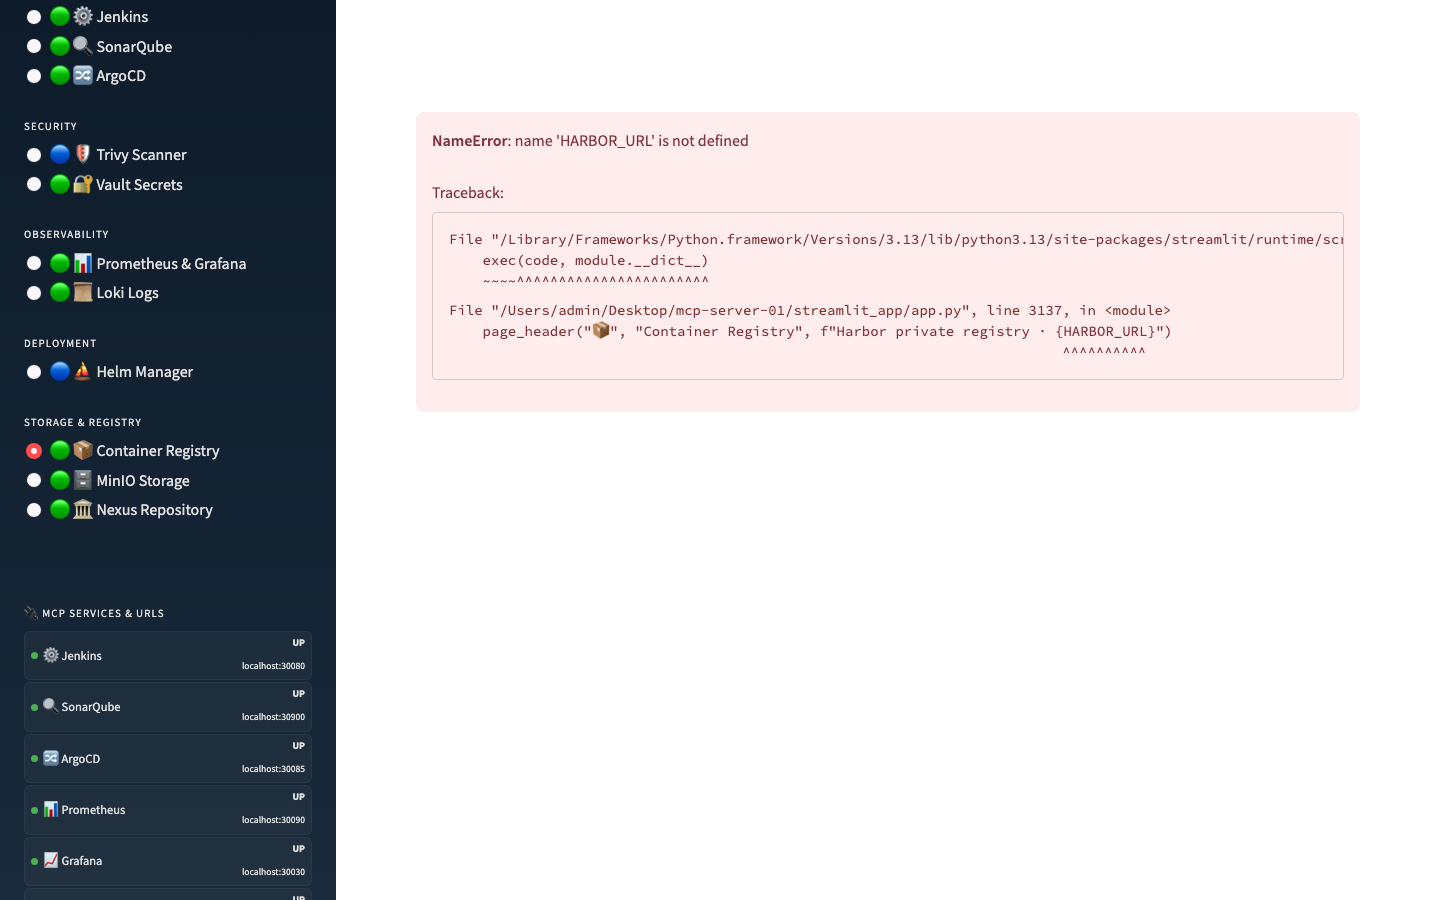
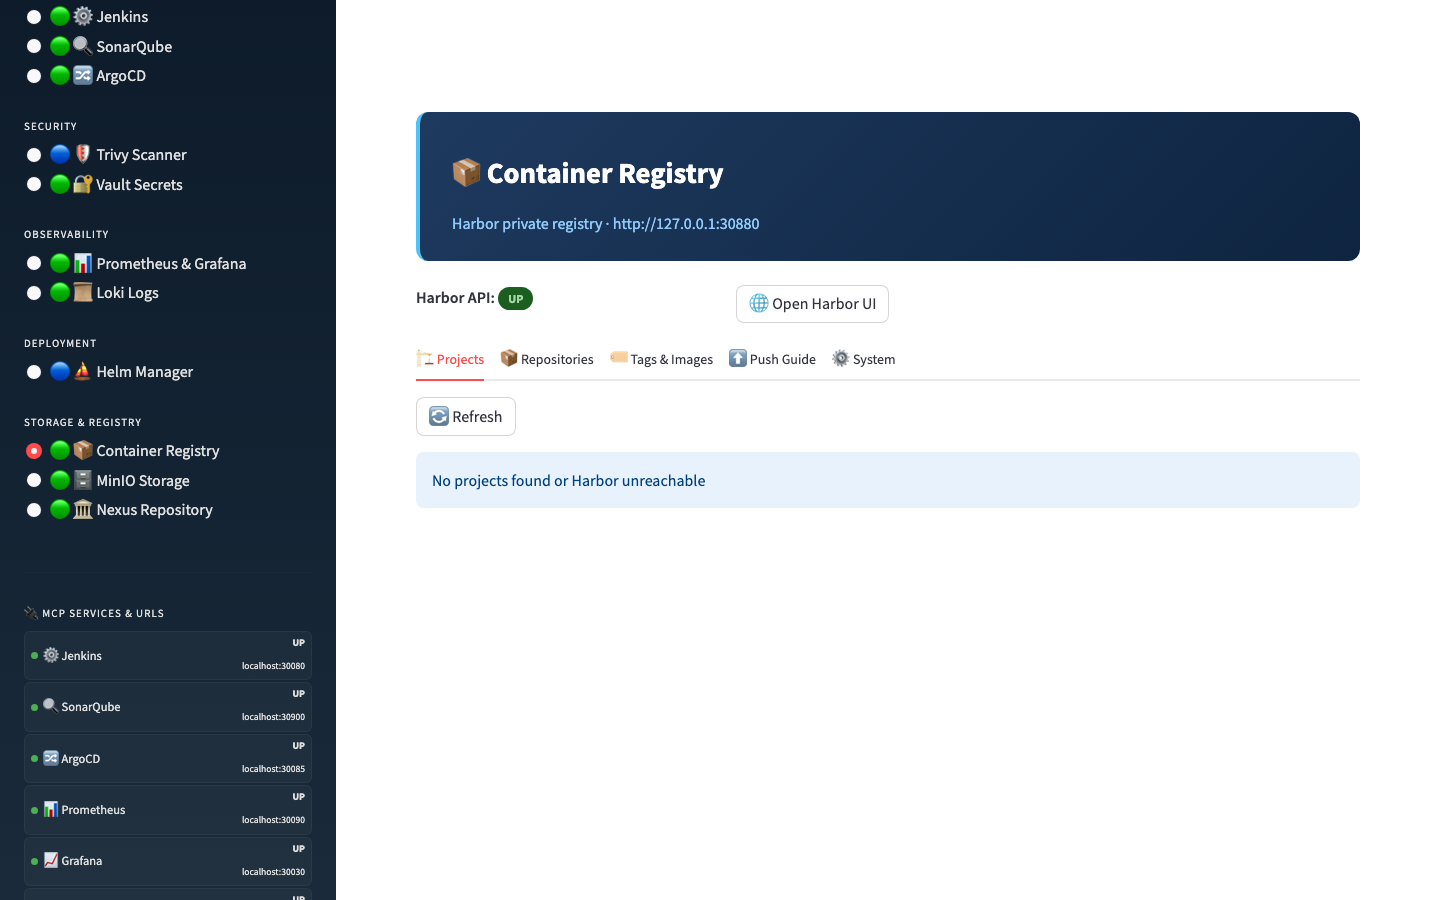
fix: add missing HARBOR_URL, HARBOR_AUTH, MINIO_ACCESS_KEY, MINIO_SECRET_KEY constants
NameError crashes on Container Registry and MinIO pages because these
variables were used in page code but never defined in the config block.
Added all 4 constants at lines 32-38 alongside existing service configs.
Also refreshed st_13_registry.png and st_14_minio.png screenshots.

Changed region(s): [[0.2812, 0.1244, 0.9688, 0.4044], [0.3125, 0.5289, 0.5, 0.56], [0.2812, 0.4356, 0.3438, 0.4978]]

diff --git a/streamlit_app/app.py b/streamlit_app/app.py
@@ -31,8 +31,12 @@ VAULT_TOKEN       = "root"
 LOKI_URL          = "http://localhost:30310"
 REGISTRY_URL      = "http://127.0.0.1:30880"
 REGISTRY_UI_URL   = "http://127.0.0.1:30881"
+HARBOR_URL        = "http://127.0.0.1:30880"
+HARBOR_AUTH       = ("admin", "Admin@123456789@")
 MINIO_URL         = "http://localhost:30920"
 MINIO_CONSOLE_URL = "http://localhost:30921"
+MINIO_ACCESS_KEY  = "admin"
+MINIO_SECRET_KEY  = "Admin@123456789@"
 NEXUS_URL         = "http://localhost:30081"
 NEXUS_AUTH        = ("admin", "Admin@123456789@")
 
